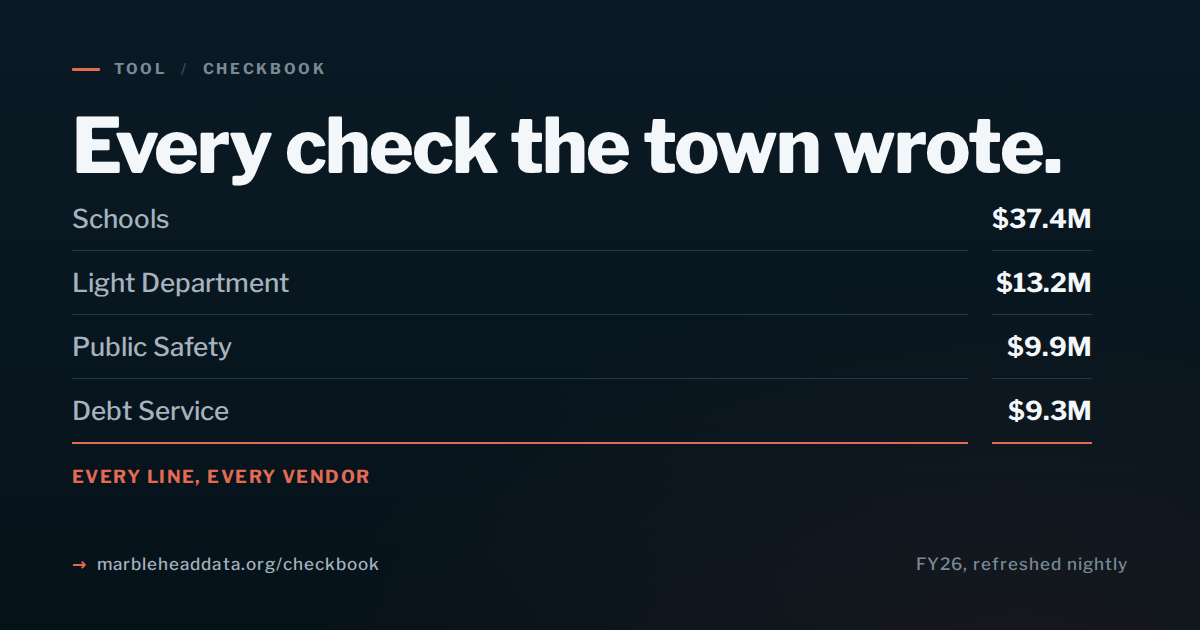
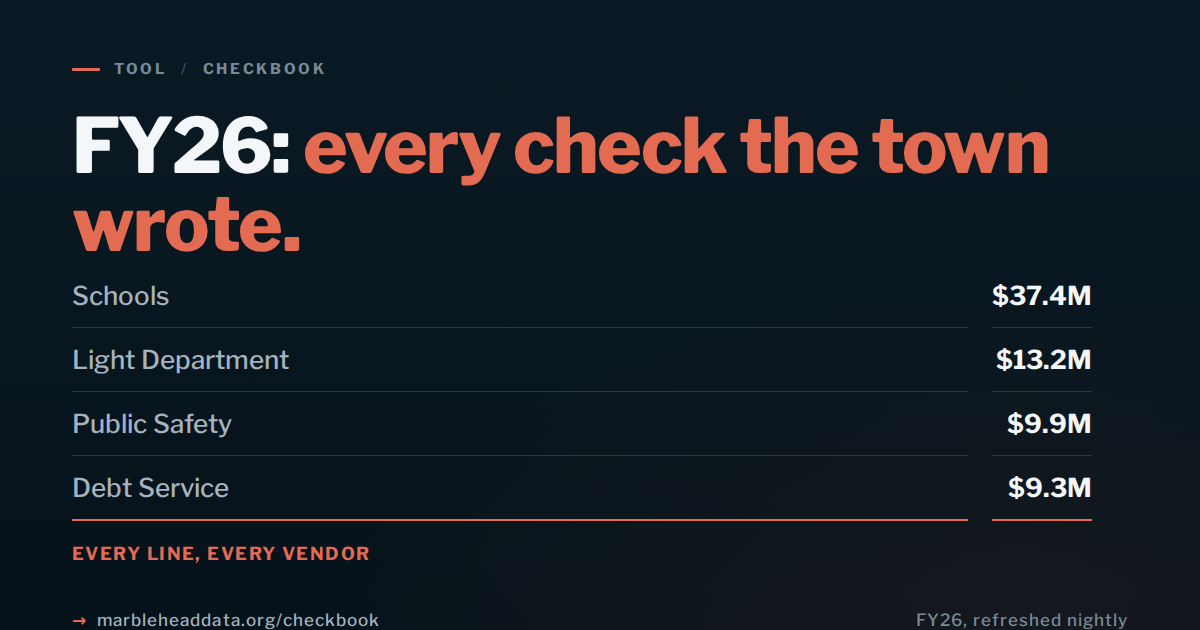
checkbook + meetings v4: scope qualifiers in the headlines
After the branches misframing was caught, audited the other 9 cards
for similar 'every X' overpromises. Two needed scope qualifiers:

- checkbook headline 'Every check the town wrote' → 'FY26: every
  check the town wrote.' The page covers FY26 vendor checks only
  (excludes payroll and prior years); the description had the
  qualifier but the image alone overstated scope.

- meetings headline 'Every public meeting, transcribed' → 'Every
  Marblehead TV meeting, transcribed.' The page covers MHTV-televised
  meetings only (excludes untelevised subcommittees, executive
  sessions). The subhead also retitled accordingly.

Frontmatter og_title on both pages updated to match so FB pulls the
same scope-qualified language.

The other 8 cards stay as-is: their claims are quotable from the live
pages (town-debt's 'voters approved every dollar' is verbatim, etc.).

diff --git a/meetings.html b/meetings.html
@@ -5,8 +5,8 @@ permalink: /meetings/
 body_class: transcripts-page
 hide_read_time: true
 description: AI-generated transcripts and summaries of public board and committee meetings, sourced from MHTV.
-og_title: "Every public meeting, transcribed"
-og_description: "AI summaries plus full timestamped transcripts of every Marblehead board and committee meeting, sourced from MHTV. Searchable across the archive."
+og_title: "Every Marblehead TV meeting, transcribed"
+og_description: "AI summaries plus full timestamped transcripts of every board and committee meeting that airs on Marblehead TV. Searchable across the archive."
 og_image: /assets/og/meetings.png
 ---
 

diff --git a/og-cards/meetings.html b/og-cards/meetings.html
@@ -14,8 +14,8 @@
     </header>
 
     <div>
-      <h1 class="card-headline">Every public meeting, <em>transcribed.</em></h1>
-      <p class="card-subhead">AI summaries and full timestamped transcripts of every Marblehead board and committee meeting. Sourced from Marblehead TV, searchable across the archive.</p>
+      <h1 class="card-headline">Every Marblehead TV meeting, <em>transcribed.</em></h1>
+      <p class="card-subhead">AI summaries plus full timestamped transcripts of every board and committee meeting that airs on Marblehead TV. Searchable across the archive.</p>
     </div>
 
     <footer class="card-foot">

diff --git a/checkbook.html b/checkbook.html
@@ -2,7 +2,7 @@
 title: "Town checkbook"
 permalink: /checkbook/
 scripts: [citations]
-og_title: "Every check the town wrote"
+og_title: "FY26: every check the town wrote"
 og_description: "FY26 spending and pacing for Marblehead. $101.2M in vendor checks through Jun 17, against a $206.1M adopted budget across all funds. Budget vs actual by Fund, Department, Category, Division, and Object."
 og_image: /assets/og/checkbook.png
 og_url: https://marbleheaddata.org/checkbook/

diff --git a/og-cards/checkbook.html b/og-cards/checkbook.html
@@ -61,7 +61,7 @@
     </header>
 
     <div>
-      <h1 class="card-headline">Every check the town wrote.</h1>
+      <h1 class="card-headline">FY26: <em>every check the town wrote.</em></h1>
       <div class="ledger">
         <div class="row first"><div class="cat">Schools</div><div class="amt">$37.4M</div></div>
         <div class="row"><div class="cat">Light Department</div><div class="amt">$13.2M</div></div>
